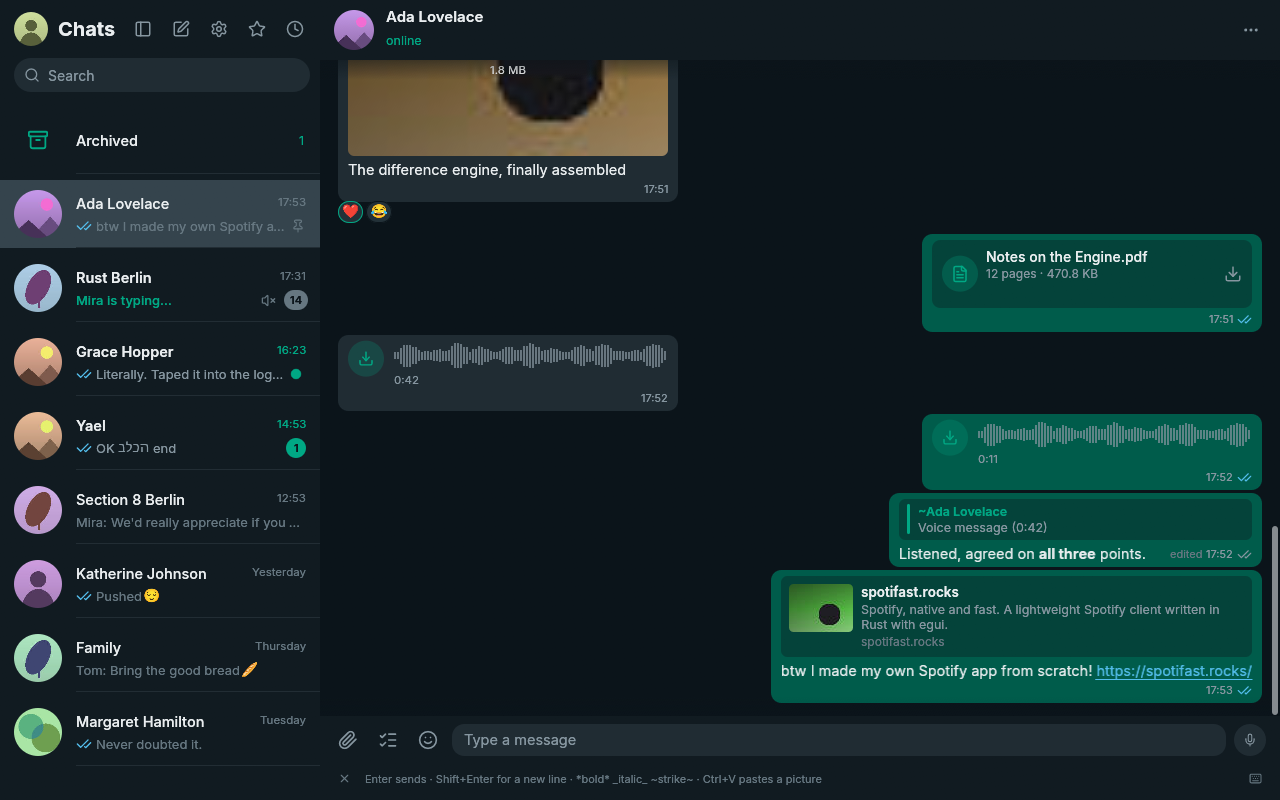
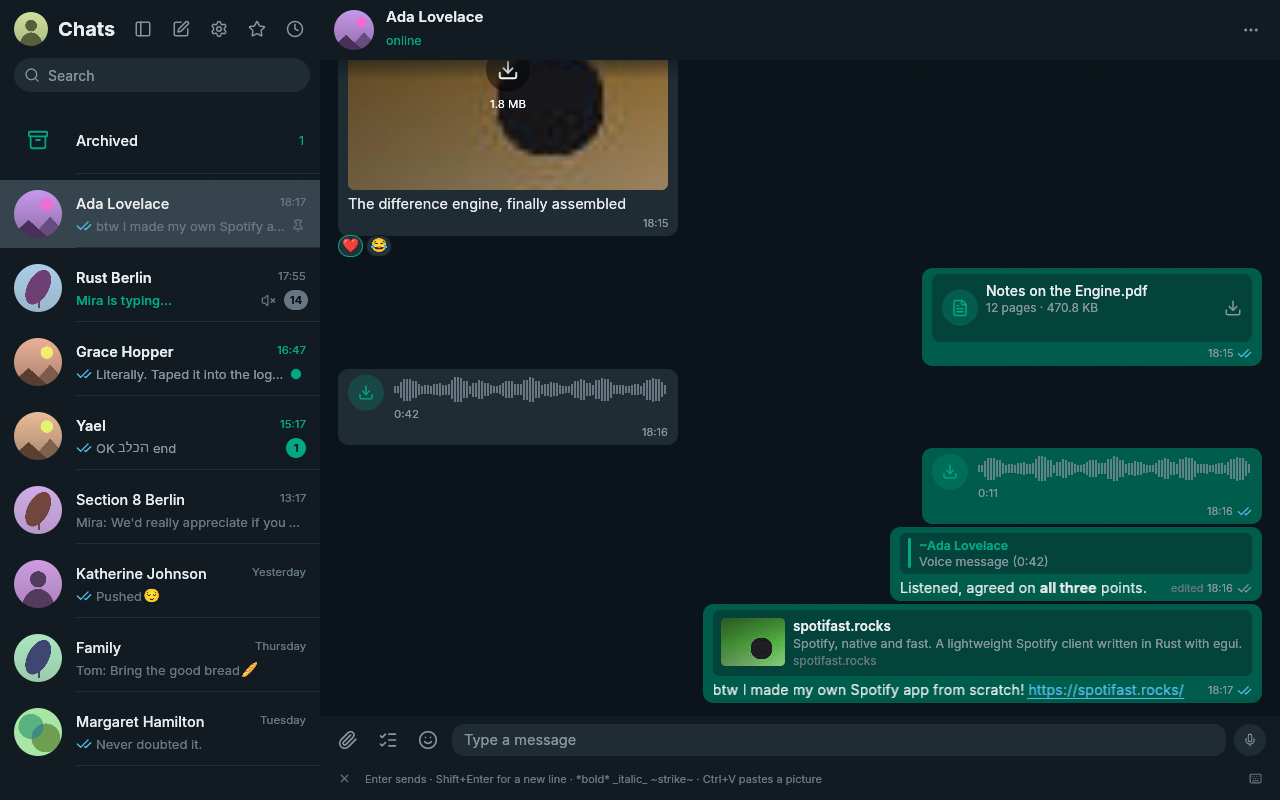
docs(readme): show the amber ZapFast mark in the hero

diff --git a/README.md b/README.md
@@ -11,7 +11,7 @@ Rust + [egui](https://github.com/emilk/egui). Protocol: [whatsapp-rust](https://
 <br />
 
 [![Windows 10 and 11](https://img.shields.io/badge/Windows-10%20%26%2011-0078D4?style=for-the-badge&logo=windows&logoColor=white)](https://github.com/LisandroNahuelH/whatsfast/releases)
-[![Latest release](https://img.shields.io/github/v/release/LisandroNahuelH/whatsfast?style=for-the-badge&color=00a884)](https://github.com/LisandroNahuelH/whatsfast/releases)
+[![Latest release](https://img.shields.io/github/v/release/LisandroNahuelH/whatsfast?style=for-the-badge&color=E85D04)](https://github.com/LisandroNahuelH/whatsfast/releases)
 [![Rust](https://img.shields.io/badge/Rust-egui-DEA584?style=for-the-badge&logo=rust&logoColor=000)](https://www.rust-lang.org/)
 [![License: MIT](https://img.shields.io/badge/License-MIT-1b4332?style=for-the-badge)](LICENSE)
 [![Native](https://img.shields.io/badge/Engine-native%20%7C%20no%20Chromium-0b1c17?style=for-the-badge)](#install-windows)
@@ -19,7 +19,7 @@ Rust + [egui](https://github.com/emilk/egui). Protocol: [whatsapp-rust](https://
 <br />
 
 <a href="https://github.com/LisandroNahuelH/whatsfast/releases">
-  <img src="https://img.shields.io/badge/Download_installer-GitHub_Releases-00a884?style=for-the-badge&logo=github&logoColor=white" alt="Download the Windows installer from GitHub Releases" />
+  <img src="https://img.shields.io/badge/Download_installer-GitHub_Releases-E85D04?style=for-the-badge&logo=github&logoColor=white" alt="Download the Windows installer from GitHub Releases" />
 </a>
 
 <br />
